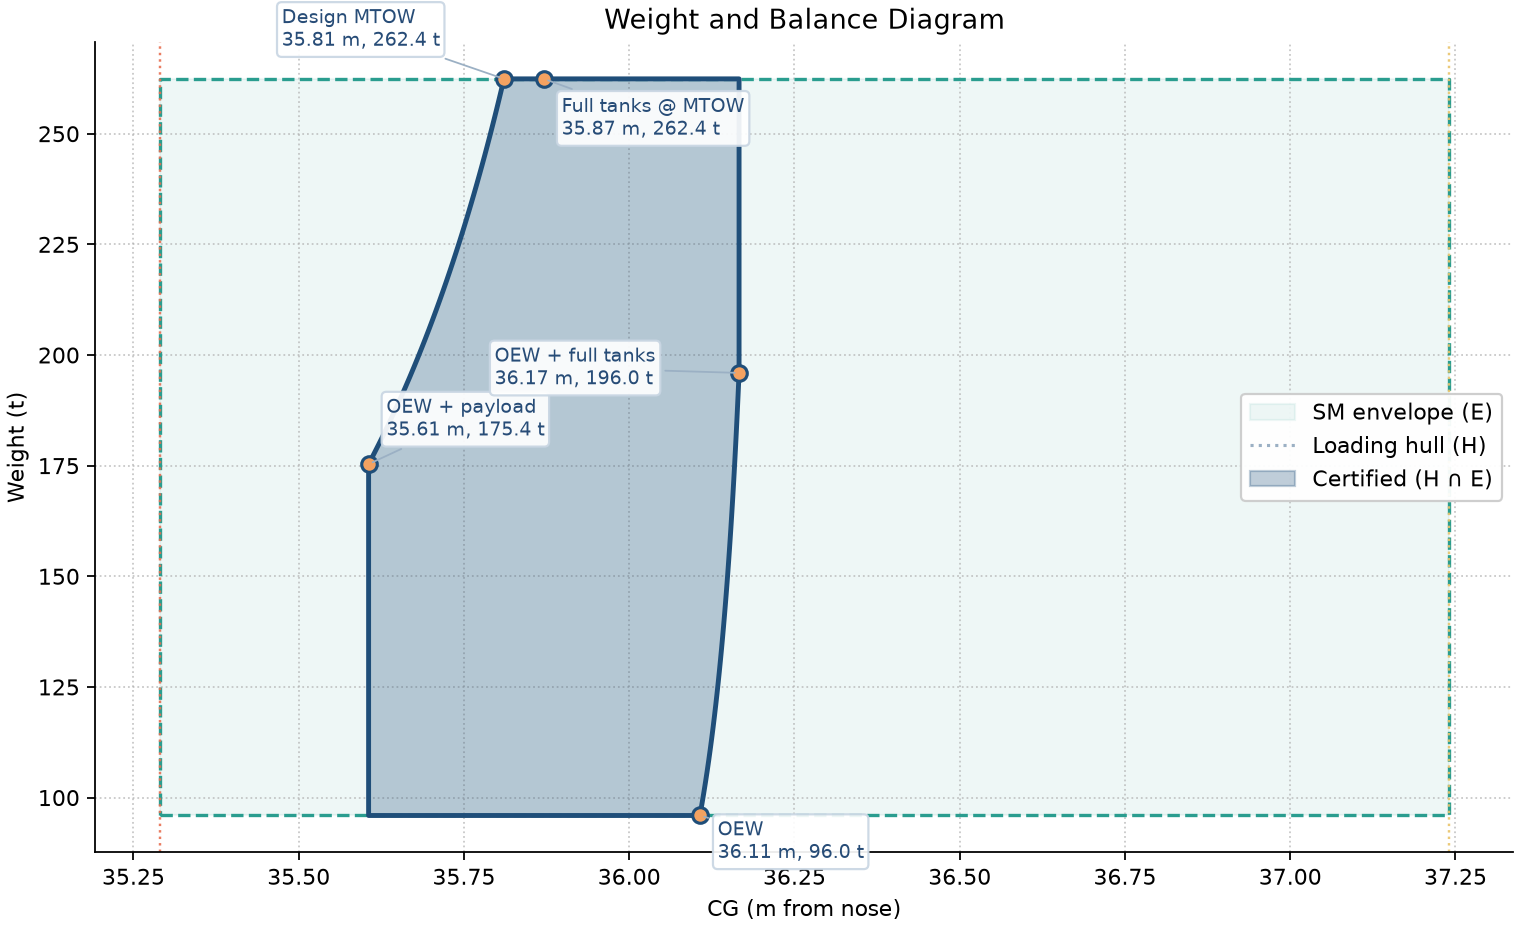
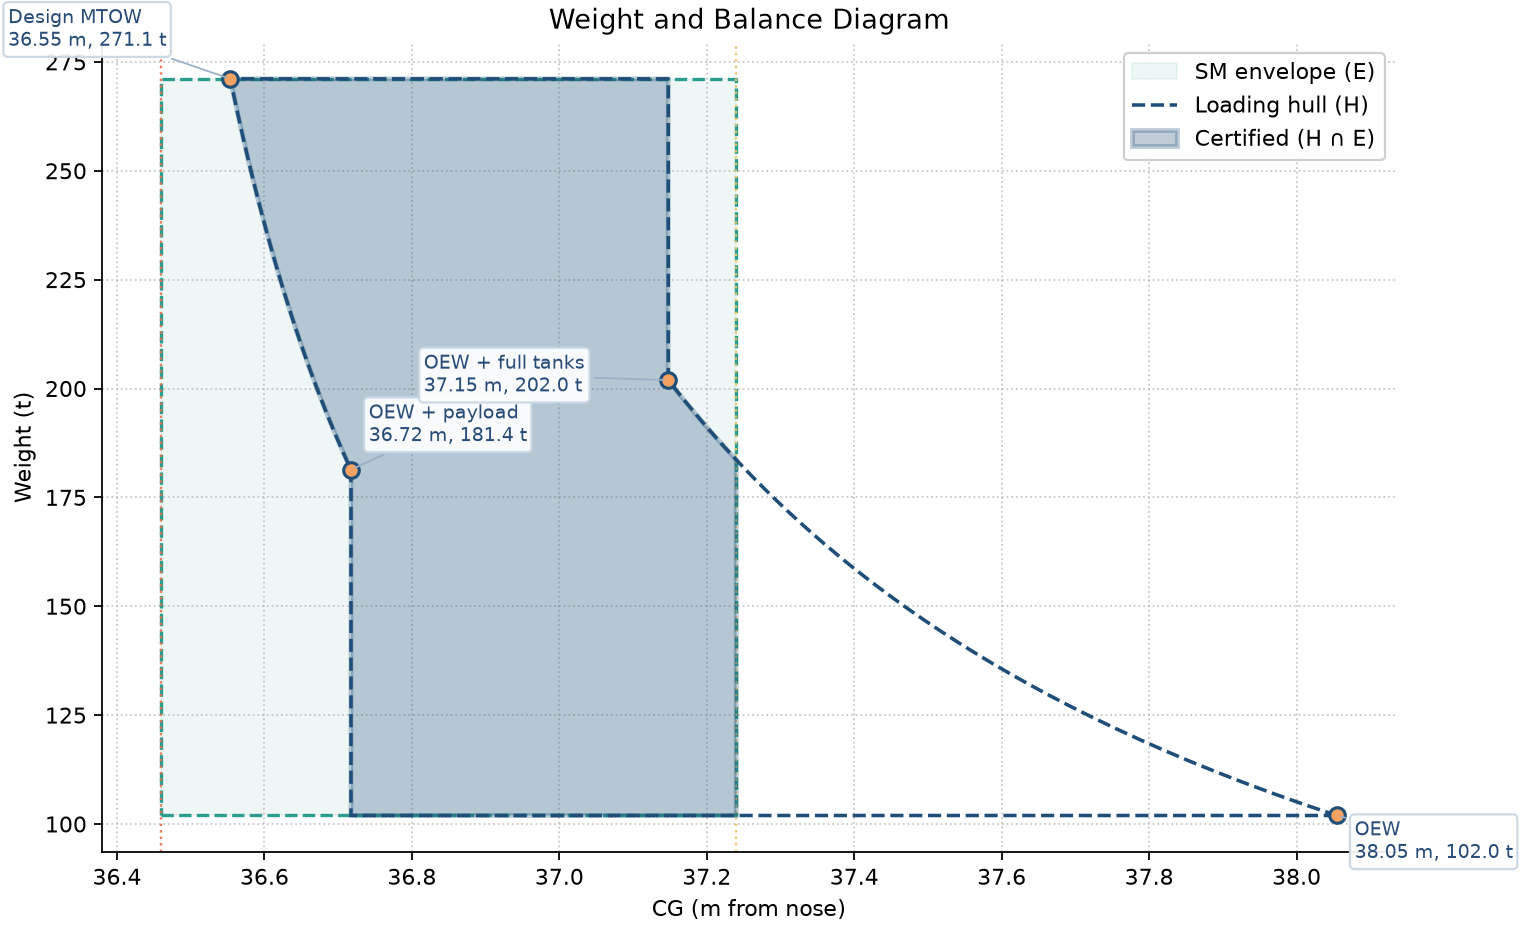
weird but legal shape W&B at nominal

diff --git a/tools/weight_calc.py b/tools/weight_calc.py
@@ -553,11 +553,12 @@ def loading_hull_boundary(
             f"({w_fuel_max:.1f} kg)"
         )
 
+    mtow_full_tanks = _state_point(specs, oew, w_payload_full, w_fuel_max)
+
     corners = [
         _state_point(specs, oew, 0.0, 0.0, "OEW"),
         _state_point(specs, oew, w_payload_max, 0.0, "OEW + payload"),
         _state_point(specs, oew, w_payload_max, w_fuel_design, "Design MTOW"),
-        _state_point(specs, oew, w_payload_full, w_fuel_max, "Full tanks @ MTOW"),
         _state_point(specs, oew, 0.0, w_fuel_max, "OEW + full tanks"),
     ]
 
@@ -567,7 +568,7 @@ def loading_hull_boundary(
         sample_mtow_trade(
             specs, oew, mtow, w_payload_max, w_payload_full, n_points
         ),
-        box_payload_edge(corners[3], corners[4]),
+        box_payload_edge(mtow_full_tanks, corners[3]),
         sample_tank_fill(specs, oew, 0.0, w_fuel_max, 0.0, n_points),
     ]
 
@@ -698,35 +699,30 @@ def write_weight_balance_diagram(
         zorder=2,
     )
 
-    # Loading hull H outline
+    # Loading hull H outline (dashed; certified fill sits on top inside E)
     ax.plot(
         h_cgs,
         h_ws,
-        color="#9bb0c4",
-        linewidth=1.4,
-        linestyle=":",
+        color="#1f4e79",
+        linewidth=1.6,
+        linestyle="--",
         zorder=3,
         label="Loading hull (H)",
     )
 
-    # Certified H ∩ E
+    # Certified H ∩ E (fill + edge only; no duplicate solid trace)
     if len(poly_cert) >= 3:
         cert_cgs = [p[0] for p in poly_cert] + [poly_cert[0][0]]
         cert_ws = [p[1] for p in poly_cert] + [poly_cert[0][1]]
         ax.fill(
             cert_cgs,
             cert_ws,
-            color="#1f4e79",
+            facecolor="#1f4e79",
+            edgecolor="#1f4e79",
             alpha=0.28,
+            linewidth=2.2,
             zorder=4,
             label=r"Certified (H $\cap$ E)",
-        )
-        ax.plot(
-            cert_cgs,
-            cert_ws,
-            color="#1f4e79",
-            linewidth=2.2,
-            zorder=5,
         )
 
     ax.plot(
@@ -745,7 +741,6 @@ def write_weight_balance_diagram(
         (8, -22),
         (8, 10),
         (-100, 12),
-        (8, -28),
         (-110, -8),
     ]
     for p, offset in zip(corners, label_offsets):

diff --git a/data/constants.py b/data/constants.py
@@ -16,7 +16,7 @@ C_D0 = 0.0189 # https://discordapp.com/channels/1534147646871048272/153414820337
 
 # Static margin limits as fractions of MAC (forward = SM_MAX, aft = SM_MIN)
 SM_MIN = 0.05
-SM_MAX = 0.3
+SM_MAX = 0.15
 
 # Calculation hyperparams
 MAX_ITERS = 10
